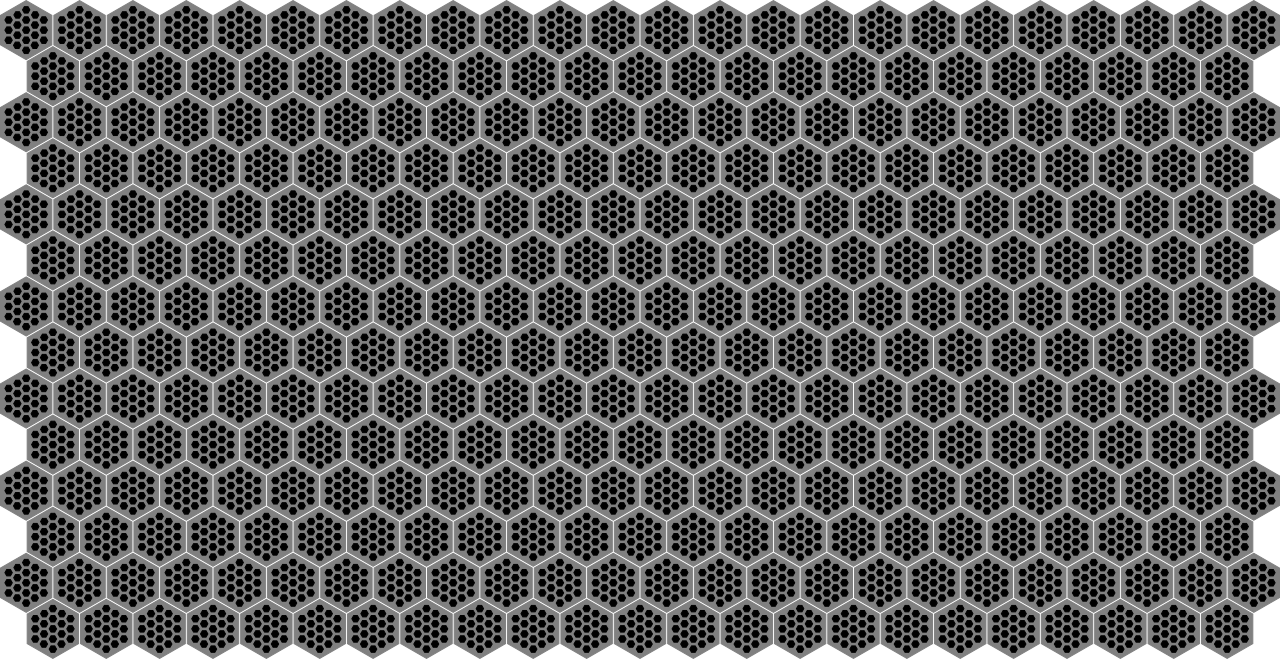
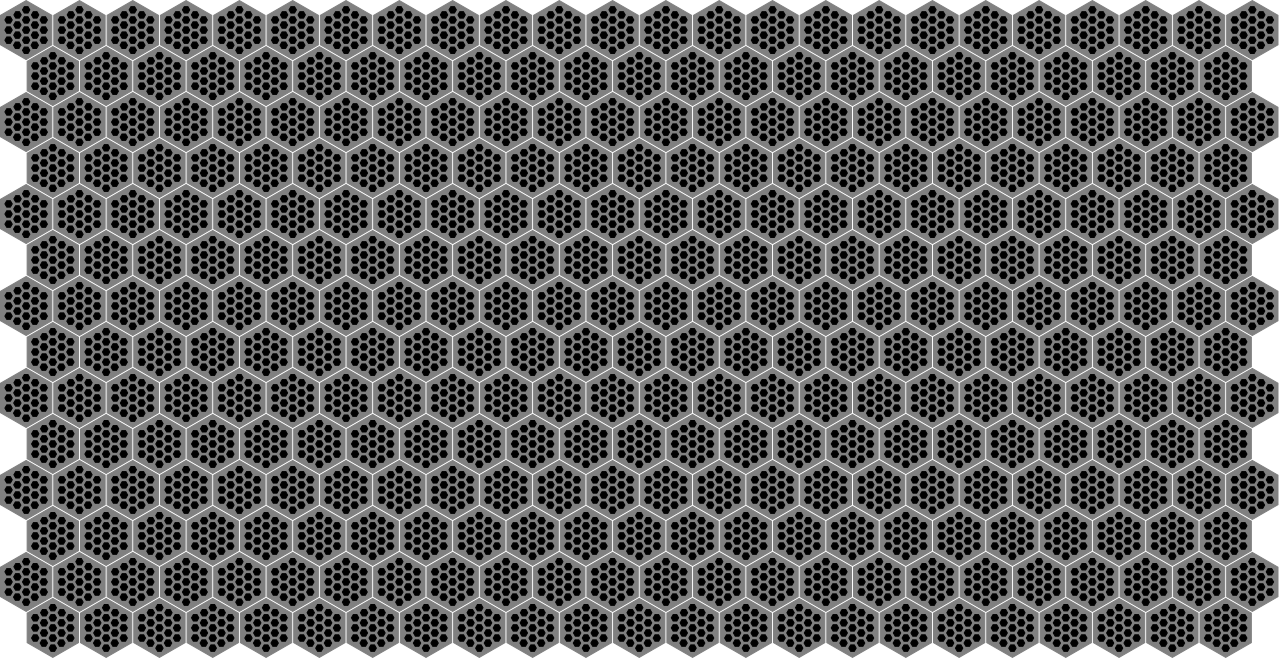
Make background problem with fitting

diff --git a/naja/core/src/com/umniks/game/naja/Hex.java b/naja/core/src/com/umniks/game/naja/Hex.java
@@ -36,22 +36,22 @@ class HexPack {
 
 	private Hexagon[]	Food;
 
-	public HexPack(int Radius) {
+	public HexPack(float Radius) {
 		shape			= new ShapeRenderer();
 		batch			= new SpriteBatch();
 
 		GameAtlas		= new Texture(Gdx.files.internal("naja-atlas.png"));
 		Food			= new Hexagon[8];
-		Food[0]			= new Hexagon(29, batch, new TextureRegion(GameAtlas, 2763, 9, 238, 266));
-		Food[1]			= new Hexagon(29, batch, new TextureRegion(GameAtlas, 1846, 9, 238, 266));
-		Food[2]			= new Hexagon(29, batch, new TextureRegion(GameAtlas, 1540, 9, 238, 266));
-		Food[3]			= new Hexagon(29, batch, new TextureRegion(GameAtlas, 1232, 9, 238, 266));
-		Food[4]			= new Hexagon(29, batch, new TextureRegion(GameAtlas,  926, 9, 238, 266));
-		Food[5]			= new Hexagon(29, batch, new TextureRegion(GameAtlas,  620, 9, 238, 266));
-		Food[6]			= new Hexagon(29, batch, new TextureRegion(GameAtlas, 2153, 9, 238, 266));
-		Food[7]			= new Hexagon(29, batch, new TextureRegion(GameAtlas, 2460, 9, 238, 266));
-		SnakePart		= new Hexagon(29, batch, new TextureRegion(GameAtlas, 13, 10, 231, 261));
-		Tile			= new Hexagon(29, batch, new TextureRegion(GameAtlas, 338-spaceTile, 30-spaceTile, 212+spaceTile, 245+spaceTile));
+		Food[0]			= new Hexagon(Radius, batch, new TextureRegion(GameAtlas, 2763, 9, 238, 266));
+		Food[1]			= new Hexagon(Radius, batch, new TextureRegion(GameAtlas, 1846, 9, 238, 266));
+		Food[2]			= new Hexagon(Radius, batch, new TextureRegion(GameAtlas, 1540, 9, 238, 266));
+		Food[3]			= new Hexagon(Radius, batch, new TextureRegion(GameAtlas, 1232, 9, 238, 266));
+		Food[4]			= new Hexagon(Radius, batch, new TextureRegion(GameAtlas,  926, 9, 238, 266));
+		Food[5]			= new Hexagon(Radius, batch, new TextureRegion(GameAtlas,  620, 9, 238, 266));
+		Food[6]			= new Hexagon(Radius, batch, new TextureRegion(GameAtlas, 2153, 9, 238, 266));
+		Food[7]			= new Hexagon(Radius, batch, new TextureRegion(GameAtlas, 2460, 9, 238, 266));
+		SnakePart		= new Hexagon(Radius, batch, new TextureRegion(GameAtlas, 13, 10, 231, 261));
+		Tile			= new Hexagon(Radius, batch, new TextureRegion(GameAtlas, 338-spaceTile, 30-spaceTile, 212+spaceTile, 245+spaceTile));
 	}
 
 	Hexagon getTile()		{ return Tile; }

diff --git a/naja/core/src/com/umniks/game/naja/Hexagon.java b/naja/core/src/com/umniks/game/naja/Hexagon.java
@@ -11,6 +11,7 @@ class Hexagon {
 	private float d, D; /* diameters of incircle circumcircle */
 	private float x, y; /* raw coordinates of center of hexagon */
 	private float S;	/* area of hexagon */
+	private float s;	/* distance between tow hexagons */
 	private SpriteBatch batch;
 	private TextureRegion sprite;
 
@@ -20,7 +21,8 @@ class Hexagon {
 	private Point[] v; /* Six vertices of hexagon */
 	private Point c;
 
-	public Hexagon(int x, int y, int R, SpriteBatch batch, TextureRegion sprite) {
+	public Hexagon(int x, int y, float R, SpriteBatch batch, TextureRegion sprite) {
+		this.s = 2;
 		this.R = R;
 		this.r = (float) Math.cos(Math.PI / 6) * R;
 		this.D = 2*R;
@@ -40,7 +42,8 @@ class Hexagon {
 			this.v[i] = new Point();
 	}
 
-	public Hexagon(int R, SpriteBatch batch, TextureRegion sprite) {
+	public Hexagon(float R, SpriteBatch batch, TextureRegion sprite) {
+		this.s = 2;
 		this.R = R;
 		this.r = (float) Math.cos(Math.PI / 6) * R;
 		this.D = 2*R;
@@ -89,8 +92,8 @@ class Hexagon {
 	/* Calcs coords of 6 hexagon's dots by it's hex coordinates */
 	private void calcDots(int x, int y) {
 		/* Calculating coordinates of center of hexagon */
-		c.setx(x*d + (y%2 == 0 ? d : r));
-		c.sety(y*R*1.5f + R);
+		c.setx(x*s + x*d + (y%2 == 0 ? 0 : r));
+		c.sety(y*s + y*R*1.5f + R);
 
 		v[0].setx(c.getx() + r);
 		v[0].sety(c.gety() + R/2);

diff --git a/naja/core/src/com/umniks/game/naja/World.java b/naja/core/src/com/umniks/game/naja/World.java
@@ -45,7 +45,7 @@ class World {
 		MenuW		= 12;
 		MenuH		= 7;
 		snd			= new Snd();
-		hex			= new HexPack(60);
+		hex			= new HexPack(29.45f);
 
 		Texture texture
 					= new Texture(Gdx.files.internal("myfont.png"));
